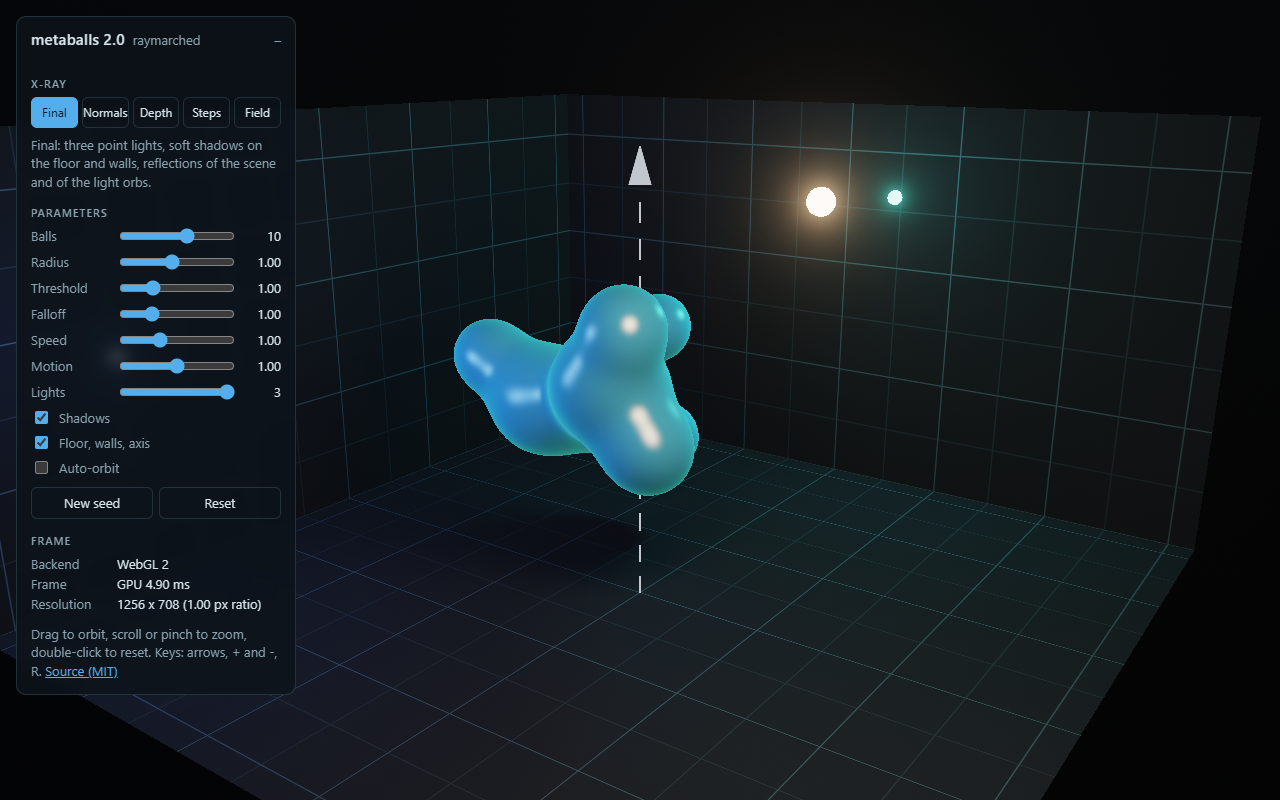
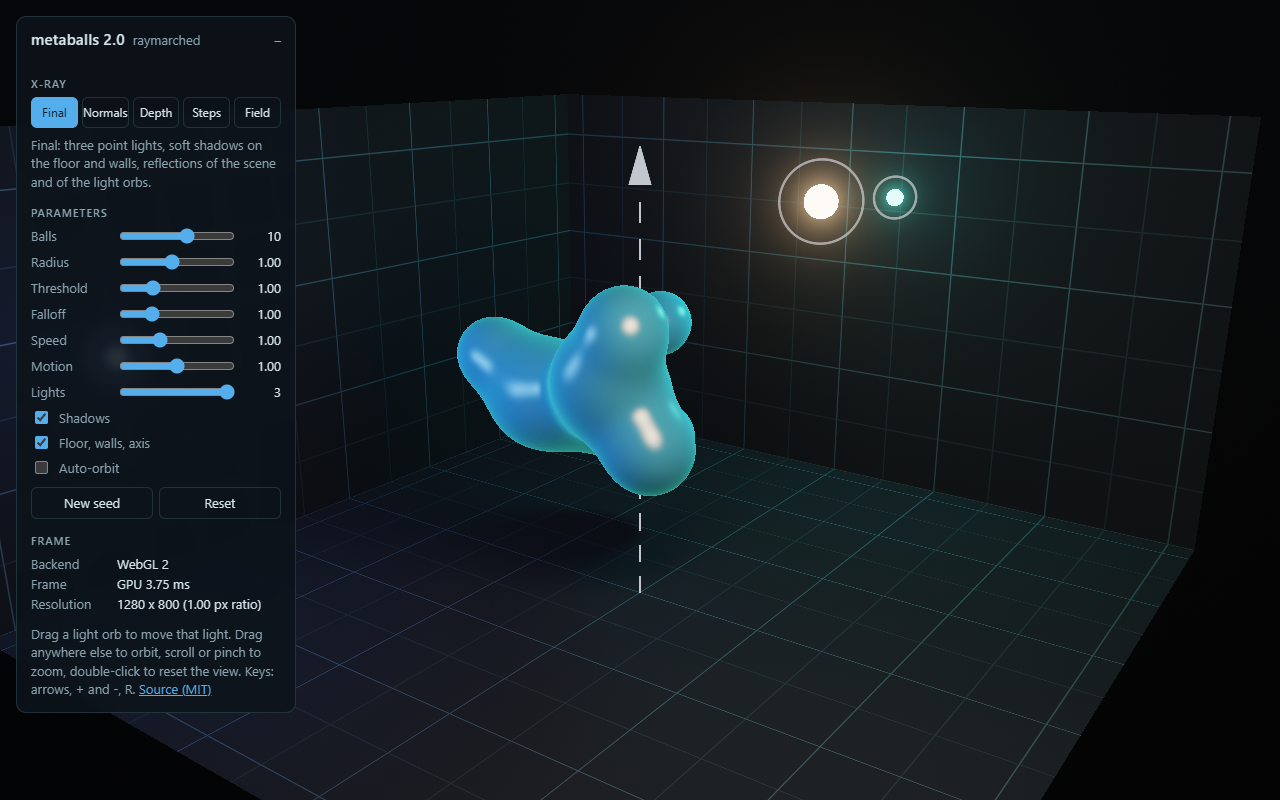
Lights the visitor can move: drag a light orb
V (17/10): besides the orbit camera, the lights move too, so the shape reads from the way the
highlights, reflections and shadows follow. Grab an orb (a faint ring marks each one, a bright
ring the one under the pointer) and drag it in the plane that faces the camera, inside the room.
While it is held, a dashed line drops to a ring on the floor to show its height. Anywhere else a
drag still orbits. API: mb.lights and mb.resetLights(); the demo Reset puts them back and the
instance is window.metaballs for the console.

diff --git a/metaballs.js b/metaballs.js
@@ -69,12 +69,13 @@
     'uniform vec3 uLightPos[3];',
     'uniform vec3 uLightCol[3];         // linear colour times intensity',
     'uniform int uLights, uMode, uScene, uShadows;',
+    'uniform int uHot;                  // the light under the pointer or being dragged, -1 for none',
     'out vec4 outColor;',
     '',
     'const float W = 3.2;               // floor is [-W, W]^2 at y = 0; walls at x = -W and z = -W',
     'const float H = 3.4;               // wall height',
     'const float AXIS_TOP = 3.0;        // the dashed vertical axis runs from y = 0 to here, then an arrow head',
-    'const float ORB_R = 0.06;          // radius of the visible light orbs',
+    'const float ORB_R = 0.07;          // radius of the visible light orbs (drag one to move its light)',
     '',
     // Colours are authored in sRGB, used in linear.
     'vec3 lin(vec3 c) { return pow(c / 255.0, vec3(2.2)); }',
@@ -211,6 +212,10 @@
     '  vec3 alb = id == 1.0 ? lin(vec3(34, 38, 44)) : lin(vec3(28, 32, 38));',
     '  float g = max(gridLine(q, 0.5, fp) * 0.35, gridLine(q, 1.0, fp));',
     '  alb = mix(alb, lin(vec3(70, 92, 104)), g * 0.5);',
+    '  if (id == 1.0 && uHot >= 0) {           // where the light under the pointer stands on the floor',
+    '    float r = length(p.xz - uLightPos[uHot].xz);',
+    '    alb = mix(alb, vec3(0.9), (1.0 - smoothstep(0.0, max(fp, 0.004) * 1.5, abs(r - 0.16))) * 0.8);',
+    '  }',
     '  vec3 c = alb * 0.18;',
     '  for (int i = 0; i < 3; i++) {',
     '    if (i >= uLights) break;',
@@ -258,10 +263,11 @@
     '  return c + env * fres;',
     '}',
     '',
-    '// The dashed vertical axis through the origin, with an arrow head. Returns its coverage of this pixel.',
-    'float axisCover(vec3 ro, vec3 rd, float tMax, float pix) {',
-    '  if (uScene == 0) return 0.0;',
-    '  // Closest points between the ray and the line x = z = 0.',
+    '// A dashed vertical line at (xz) from y = 0 to top, with an arrow head if head > 0. Returns its coverage of',
+    '// this pixel. The axis of the scene is lineCover(.., vec2(0), AXIS_TOP, 0.26); a dragged light gets one too.',
+    'float lineCover(vec3 ro, vec3 rd, float tMax, float pix, vec2 xz, float top, float head) {',
+    '  ro -= vec3(xz.x, 0.0, xz.y);',
+    '  // Closest points between the ray and the line x = z = 0 (after the shift).',
     '  float b = rd.y, d = dot(rd, ro), e = ro.y, den = 1.0 - b * b;',
     '  if (den < 1e-4) return 0.0;',
     '  float s = (b * e - d) / den;               // along the ray',
@@ -269,10 +275,9 @@
     '  if (s <= 0.0 || s >= tMax) return 0.0;',
     '  float dist = length(ro + rd * s - vec3(0.0, y, 0.0));',
     '  float w = s * pix * 0.9;                   // about one pixel wide at any distance',
-    '  float head = 0.26;',
-    '  if (y < 0.0 || y > AXIS_TOP + head) return 0.0;',
-    '  if (y > AXIS_TOP) {',
-    '    float rad = 0.075 * (AXIS_TOP + head - y) / head;',
+    '  if (y < 0.0 || y > top + head) return 0.0;',
+    '  if (y > top) {',
+    '    float rad = 0.075 * (top + head - y) / head;',
     '    return 1.0 - smoothstep(rad, rad + w, dist);',
     '  }',
     '  float dash = step(fract(y * 4.0), 0.55);',
@@ -360,7 +365,18 @@
     '    float d = length(ro + rd * s - uLightPos[i]);',
     '    col += uLightCol[i] * 0.004 / (d * d + 0.004) * 0.5;',
     '  }',
-    '  float ax = axisCover(ro, rd, tHit, pix);',
+    '  // The grab ring around each light orb (bright on the one under the pointer), and its line down to the floor.',
+    '  for (int i = 0; i < 3; i++) {',
+    '    if (i >= uLights) break;',
+    '    float s = dot(uLightPos[i] - ro, rd);',
+    '    if (s <= 0.0 || (s > tHit && kind != 3)) continue;',
+    '    float d = length(ro + rd * s - uLightPos[i]);',
+    '    float w = s * pix;',
+    '    float ring = 1.0 - smoothstep(w * 0.6, w * 1.6, abs(d - ORB_R * 2.4));',
+    '    col = mix(col, vec3(1.0), ring * (i == uHot ? 0.9 : 0.22));',
+    '  }',
+    '  float ax = uScene == 1 ? lineCover(ro, rd, tHit, pix, vec2(0.0), AXIS_TOP, 0.26) : 0.0;',
+    '  if (uHot >= 0) ax = max(ax, lineCover(ro, rd, tHit, pix, uLightPos[uHot].xz, uLightPos[uHot].y - ORB_R * 2.6, 0.0) * 0.8);',
     '  col = mix(col, lin(vec3(200, 210, 220)) * 0.8, ax * 0.85);',
     '  outColor = vec4(tonemap(col) + dither, 1.0);',
     '}'
@@ -448,7 +464,7 @@
       gl.linkProgram(prog);
       if (!gl.getProgramParameter(prog, gl.LINK_STATUS)) throw new Error('metaballs: ' + gl.getProgramInfoLog(prog));
       ['uRes', 'uCamPos', 'uCamRight', 'uCamUp', 'uCamFwd', 'uTarget', 'uTan', 'uBalls', 'uCount', 'uIso', 'uBlend',
-        'uRho', 'uIsoR', 'uBound', 'uLightPos', 'uLightCol', 'uLights', 'uMode', 'uScene', 'uShadows'
+        'uRho', 'uIsoR', 'uBound', 'uLightPos', 'uLightCol', 'uLights', 'uMode', 'uScene', 'uShadows', 'uHot'
       ].forEach(function (n) { loc[n] = gl.getUniformLocation(prog, n) || gl.getUniformLocation(prog, n + '[0]'); });
       gl.bindVertexArray(gl.createVertexArray());   // gl_VertexID needs a bound (empty) VAO
       timerExt = gl.getExtension('EXT_disjoint_timer_query_webgl2');
@@ -464,6 +480,9 @@
     var cam = { yaw: VIEW.yaw, pitch: VIEW.pitch, dist: VIEW.dist, target: CENTRE.slice() };
     var basis = { pos: [0, 0, 0], right: [1, 0, 0], up: [0, 1, 0], fwd: [0, 0, -1] };
     var vel = { yaw: 0, pitch: 0 };
+    var lights = LIGHTS.map(function (l) { return l.pos.slice(); });   // the visitor can drag them
+    var hot = -1, dragLight = -1;
+    var tanX = 1, tanY = 1;
     var time = 0, lastNow = 0, idleSince = 0;
     var running = false, raf = 0, destroyed = false, lost = false;
     var scale = 1, slowFrames = 0;
@@ -550,8 +569,9 @@
       gl.uniform3fv(loc.uTarget, cam.target);
       // The field of view applies to the shorter side, so a phone in portrait sees the same scene, not a crop.
       var tf = Math.tan(FOV_Y / 2), aspect = canvas.width / canvas.height;
-      if (aspect >= 1) gl.uniform2f(loc.uTan, tf * aspect, tf);
-      else gl.uniform2f(loc.uTan, tf, tf / aspect);
+      tanX = aspect >= 1 ? tf * aspect : tf;
+      tanY = aspect >= 1 ? tf : tf / aspect;
+      gl.uniform2f(loc.uTan, tanX, tanY);
       gl.uniform4fv(loc.uBalls, ballData);
       gl.uniform1i(loc.uCount, n);
       gl.uniform1f(loc.uIso, params.iso);
@@ -560,8 +580,8 @@
       gl.uniform1f(loc.uIsoR, Math.pow(params.iso, -0.5 / params.blend));
       gl.uniform4fv(loc.uBound, bound);
       var lp = [], lc = [];
-      LIGHTS.forEach(function (l) {
-        lp.push(l.pos[0], l.pos[1], l.pos[2]);
+      LIGHTS.forEach(function (l, i) {
+        lp.push(lights[i][0], lights[i][1], lights[i][2]);
         lc.push(l.col[0] * l.power, l.col[1] * l.power, l.col[2] * l.power);
       });
       gl.uniform3fv(loc.uLightPos, lp);
@@ -570,6 +590,7 @@
       gl.uniform1i(loc.uMode, MODES.indexOf(mode));
       gl.uniform1i(loc.uScene, params.scene ? 1 : 0);
       gl.uniform1i(loc.uShadows, params.shadows ? 1 : 0);
+      gl.uniform1i(loc.uHot, hot < nl ? hot : -1);
       gl.drawArrays(gl.TRIANGLES, 0, 3);
 
       if (timing) gl.endQuery(timerExt.TIME_ELAPSED_EXT);
@@ -619,8 +640,55 @@
     function dragging() { return pointers.size > 0; }
     function poke() { idleSince = performance.now(); invalidate(); }
 
+    // ---------- Lights: grab an orb and drag it; it moves in the plane that faces the camera, inside the room ----------
+    function pointerRay(e) {
+      var r = canvas.getBoundingClientRect();
+      var nx = ((e.clientX - r.left) / r.width) * 2 - 1, ny = 1 - ((e.clientY - r.top) / r.height) * 2;
+      var b = basis, d = [0, 0, 0];
+      for (var a = 0; a < 3; a++) d[a] = b.fwd[a] + b.right[a] * nx * tanX + b.up[a] * ny * tanY;
+      var l = Math.hypot(d[0], d[1], d[2]);
+      return [d[0] / l, d[1] / l, d[2] / l];
+    }
+    // The light whose orb is under the pointer (within a few pixels, more for a finger), or -1.
+    function pickLight(e) {
+      if (mode === 'steps' || mode === 'field') return -1;
+      var r = canvas.getBoundingClientRect(), d = pointerRay(e), best = -1, bestD = 1e9;
+      var slack = (e.pointerType === 'mouse' ? 10 : 24) * 2 * tanY / r.height;   // pixels, as an angle
+      for (var i = 0; i < clamp(params.lights | 0, 1, 3); i++) {
+        var v = [lights[i][0] - basis.pos[0], lights[i][1] - basis.pos[1], lights[i][2] - basis.pos[2]];
+        var s = v[0] * d[0] + v[1] * d[1] + v[2] * d[2];
+        if (s <= 0) continue;
+        var miss = Math.hypot(v[0] - d[0] * s, v[1] - d[1] * s, v[2] - d[2] * s);
+        if (miss < 0.07 * 2.6 + slack * s && s < bestD) { best = i; bestD = s; }
+      }
+      return best;
+    }
+    function moveLight(e) {
+      var d = pointerRay(e), L = lights[dragLight], f = basis.fwd, o = basis.pos;
+      var den = d[0] * f[0] + d[1] * f[1] + d[2] * f[2];
+      if (den < 1e-3) return;
+      var t = ((L[0] - o[0]) * f[0] + (L[1] - o[1]) * f[1] + (L[2] - o[2]) * f[2]) / den;
+      L[0] = clamp(o[0] + d[0] * t, -3.05, 3.05);
+      L[1] = clamp(o[1] + d[1] * t, 0.25, 3.25);
+      L[2] = clamp(o[2] + d[2] * t, -3.05, 3.05);
+    }
+    function setHot(i) {
+      if (i === hot) return;
+      hot = i;
+      canvas.style.cursor = i >= 0 ? (dragLight >= 0 ? 'grabbing' : 'grab') : '';
+      invalidate();
+    }
+
     function onDown(e) {
       if (e.button !== undefined && e.button !== 0 && e.pointerType === 'mouse') return;
+      if (pointers.size === 0) {
+        var i = pickLight(e);
+        if (i >= 0) {
+          dragLight = i;
+          setHot(i);
+          canvas.style.cursor = 'grabbing';
+        }
+      }
       pointers.set(e.pointerId, { x: e.clientX, y: e.clientY });
       try { canvas.setPointerCapture(e.pointerId); } catch (err) { /* already released */ }
       vel.yaw = vel.pitch = 0;
@@ -629,10 +697,15 @@
     }
     function onMove(e) {
       var p = pointers.get(e.pointerId);
-      if (!p) return;
+      if (!p) {
+        if (e.pointerType === 'mouse') setHot(pickLight(e));   // hover: show which orb can be grabbed
+        return;
+      }
       var dx = e.clientX - p.x, dy = e.clientY - p.y;
       p.x = e.clientX; p.y = e.clientY;
-      if (pointers.size === 1) {
+      if (dragLight >= 0) {
+        moveLight(e);
+      } else if (pointers.size === 1) {
         vel.yaw = -dx * 0.006; vel.pitch = dy * 0.006;
         cam.yaw += vel.yaw; cam.pitch += vel.pitch;
       } else if (pointers.size === 2) {
@@ -645,6 +718,15 @@
     function onUp(e) {
       pointers.delete(e.pointerId);
       if (pointers.size < 2) pinchDist = 0;
+      if (pointers.size === 0 && dragLight >= 0) {
+        dragLight = -1;
+        canvas.style.cursor = '';
+        setHot(e.pointerType === 'mouse' ? pickLight(e) : -1);
+      }
+      poke();
+    }
+    function resetLights() {
+      lights = LIGHTS.map(function (l) { return l.pos.slice(); });
       poke();
     }
     function pinchLength() {
@@ -684,6 +766,7 @@
       on(canvas, 'pointermove', onMove);
       on(canvas, 'pointerup', onUp);
       on(canvas, 'pointercancel', onUp);
+      on(canvas, 'pointerleave', function () { if (dragLight < 0) setHot(-1); });
       on(canvas, 'dblclick', resetView);
       on(canvas, 'keydown', onKey);
       if (options.wheelZoom !== false) on(canvas, 'wheel', onWheel, { passive: false });
@@ -710,6 +793,9 @@
       },
       setMode: function (m) { if (MODES.indexOf(m) >= 0) { mode = m; invalidate(); } return api; },
       resetView: resetView,
+      // The three light positions ([x, y, z] each), which the visitor can drag; resetLights() puts them back.
+      get lights() { return lights; },
+      resetLights: resetLights,
       start: function () { running = true; lastNow = 0; invalidate(); return api; },
       stop: function () { running = false; if (raf) root.cancelAnimationFrame(raf); raf = 0; lastNow = 0; return api; },
       // Draw one frame at time t (seconds) without the loop: posters, tests.

diff --git a/index.html b/index.html
@@ -52,7 +52,7 @@
 </style>
 </head>
 <body>
-<canvas id="view" aria-label="Raymarched metaballs. Drag to orbit, scroll or pinch to zoom, double-click to reset."></canvas>
+<canvas id="view" aria-label="Raymarched metaballs. Drag a light orb to move it, drag elsewhere to orbit, scroll or pinch to zoom, double-click to reset."></canvas>
 
 <details class="panel" id="panel" open>
   <summary><h1>metaballs 2.0</h1><span>raymarched</span></summary>
@@ -74,7 +74,8 @@
       <dt>Frame</dt><dd id="ms">–</dd>
       <dt>Resolution</dt><dd id="res">–</dd>
     </dl>
-    <p class="hint">Drag to orbit, scroll or pinch to zoom, double-click to reset. Keys: arrows, + and -, R.
+    <p class="hint">Drag a light orb to move that light. Drag anywhere else to orbit, scroll or pinch to zoom,
+      double-click to reset the view. Keys: arrows, + and -, R.
       <a href="https://github.com/kircherv/metaballs">Source (MIT)</a></p>
   </div>
 </details>

diff --git a/demo.js b/demo.js
@@ -26,6 +26,7 @@
     mode: url.get('mode'),
     onStats: showStats
   });
+  window.metaballs = mb;   // for the console: metaballs.set({ count: 3 }), metaballs.lights, ...
   if (!mb) {
     document.body.innerHTML = '<p class="fallback">This browser has no WebGL 2, so the metaballs cannot run here.</p>';
     return;
@@ -95,6 +96,7 @@
     Object.keys(P).forEach(function (k) { d[k] = P[k].value; });
     mb.set(d);
     mb.resetView();
+    mb.resetLights();
     showAll();
   });
 

diff --git a/README.md b/README.md
@@ -6,7 +6,7 @@ Metaballs 2.0: raymarched metaballs in the browser, minimal dependencies; a C++/
 
 ## What it is
 
-- A small WebGL 2 demo of raymarched metaballs: orbit camera, three point lights that show up in the reflections, soft
+- A small WebGL 2 demo of raymarched metaballs: orbit camera, three point lights you can drag, which show up in the reflections, soft
   shadows, a minimal scene for scale (floor, two walls, a dashed vertical axis), exposed parameters, and an X-ray view of
   what the shader computes (normals, depth, step count, a slice of the field).
 - Plain JavaScript and GLSL, no framework, no bundler. Open `index.html` and it runs (also from `file://`).
@@ -36,7 +36,8 @@ sphere around the balls do not march at all.
 
 | Input | Action |
 |---|---|
-| Drag | orbit |
+| Drag a light orb | move that light (in the plane facing you, inside the room); its shadows and reflections follow |
+| Drag elsewhere | orbit |
 | Scroll, pinch | zoom |
 | Double-click, `R` | reset the view |
 | Arrows, `+`, `-` | orbit and zoom with the keyboard (canvas focused) |
@@ -59,6 +60,7 @@ Every one can go in the URL: `index.html?count=6&blend=1.6&mode=field`.
   });
   if (!mb) { /* no WebGL 2: show an image instead */ }
   mb.set({ speed: 0.5 }); mb.setMode('normals'); mb.stop(); mb.start(); mb.destroy();
+  mb.lights[0][1] = 2.5; mb.resetLights();   // the three light positions, [x, y, z] each
 </script>
 ```
 
